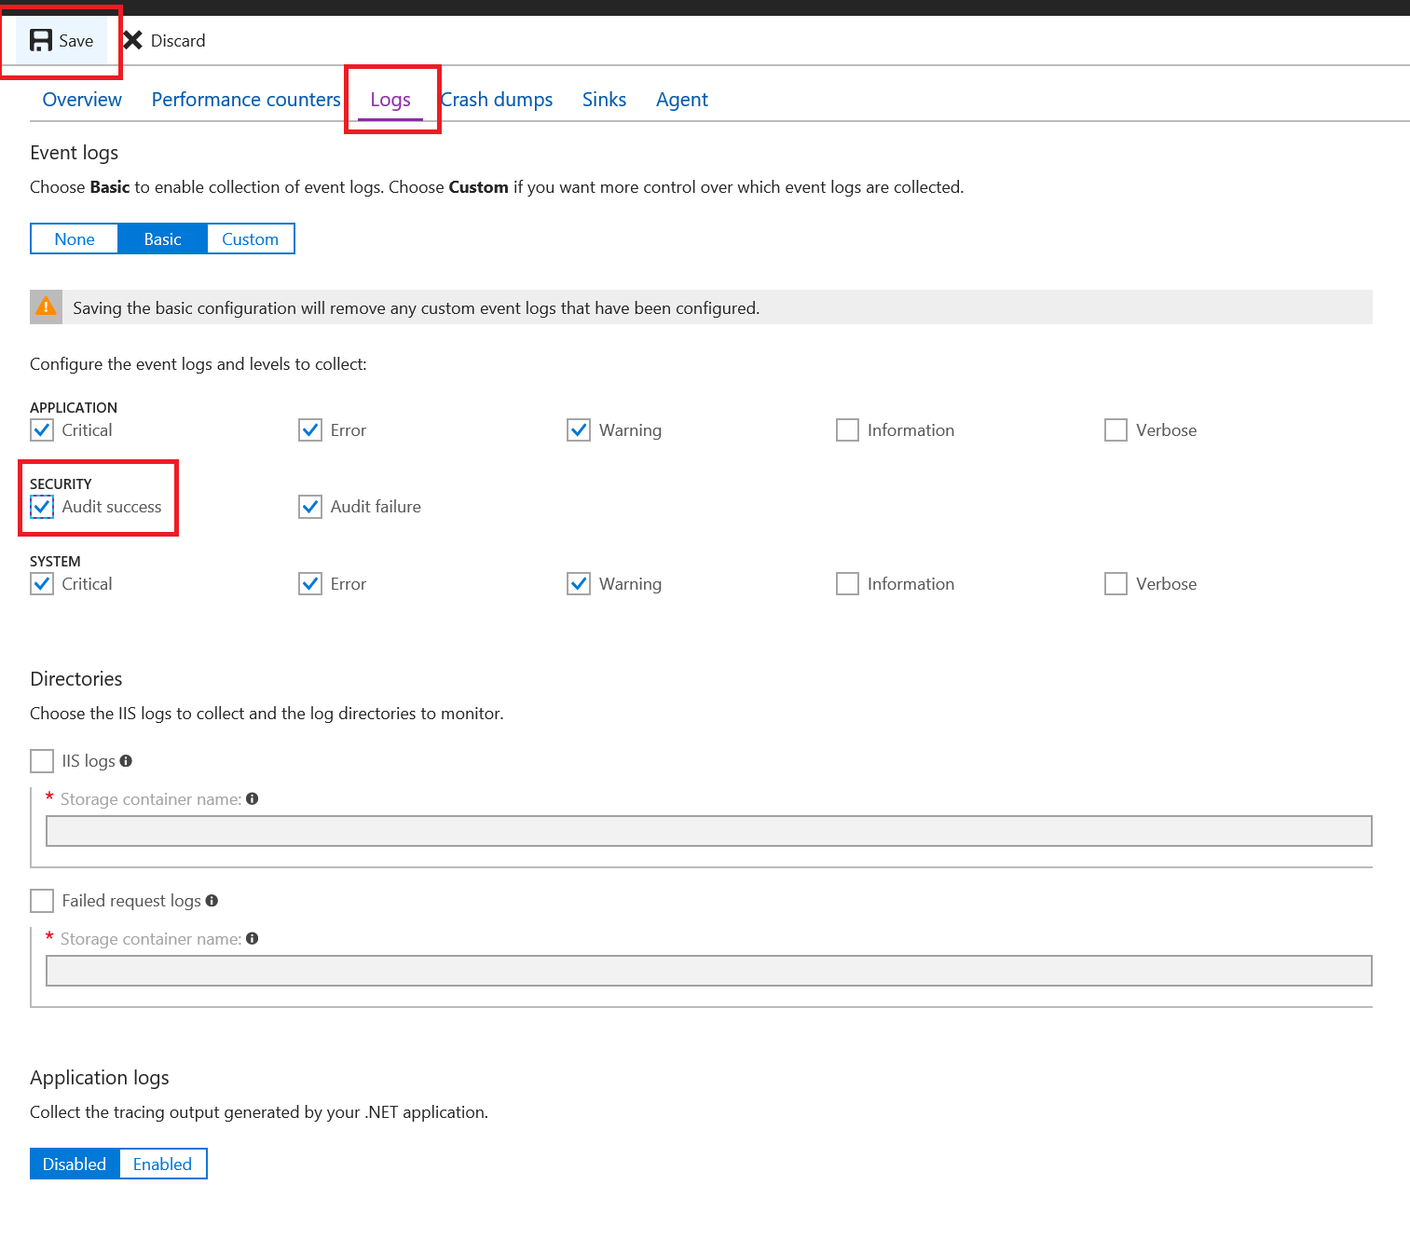
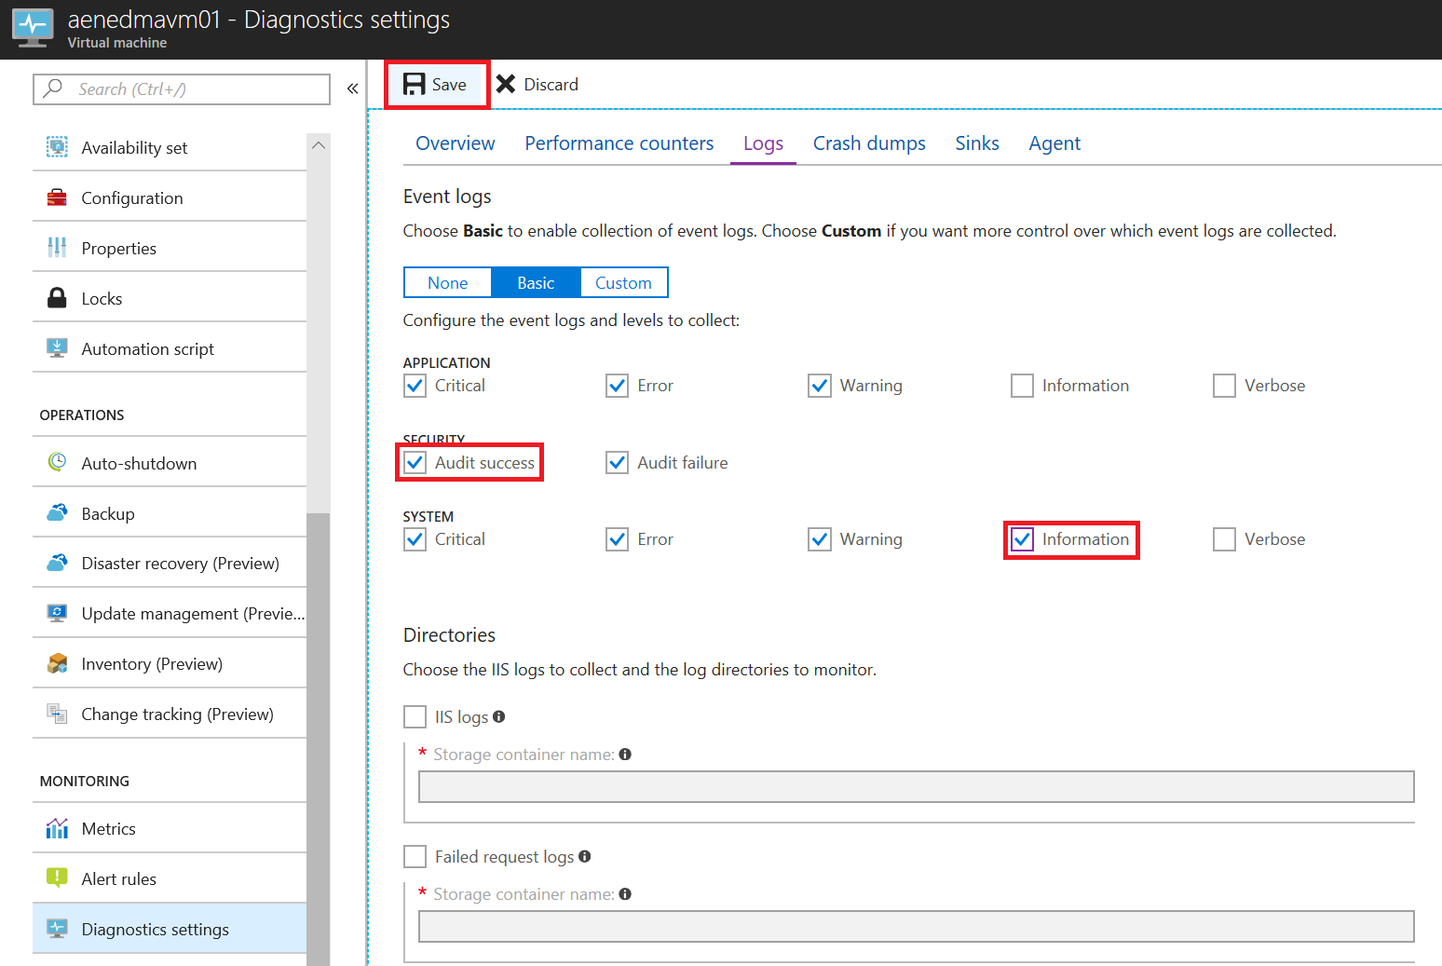
Latest readme.md and images

diff --git a/README.md b/README.md
@@ -8,6 +8,8 @@ This lab is focused on the operational aspects of working with Azure.  The subje
 
 In this exercise you will look at the Activity Log in Azure.  The Activity Log provides insight into the operations that have been performed on resources in your subscription using Resource Manager.  For example, creating a virtual machine or deleting a Public IP will show up in the Activity Log.
 
+Activity logs have a 19-day data retention period.
+
 You created a Virtual Machine in a previous lab so there should be logs related to the creation of a Virtual Machine resource and other supporting resources such as a Network Interface, a Storage Account, an OS disk, etc. in your Activity Log.  So, let's take a look at your Activity Log entries related to the resources created during that lab.
 
 <br>
@@ -36,15 +38,27 @@ We're specifically interested in the creation of a Virtual Machine resource so e
 
 <br>
 
-As an example of gathering information from the log entries, I have expanded an 'Write-NetworkInterfaces' line and selected 'JSON'.  I am able to see the Public IP that was bound to the NIC of the VM at this time.
+As an example of gathering information from the log entries, I have expanded an 'Write-NetworkInterfaces' line and selected 'JSON'.  I am able to see the Public IP that was bound to the Network Interface of the VM at this time.  You should now find an equivalent 'Write-NetworkInterfaces' line in your log entries and expand on it/click on it.
 
 ![Activity Log VM write NIC with PIP](images/4_ActivityLogWriteNICPIP.png?raw=true)
+
+<br>
+
+You can fit Activity Logs in with integration scenarios such as:
+
+* Create an email or webhook alert that triggers off an Activity Log event
+* Stream into an Event Hub for ingestion by a third-party service or custom analytics solution such as PowerBI
+* Analyse in PowerBI using the PowerBI content pack
+* Save to a Storage Account for archival or manual inspection. You can specify the retention time (in days) using Log Profiles
+* Query and view in the Azure portal
+* Query via PowerShell Cmdlet, CLI, or REST API
+* Export the Activity Log with Log Profiles to log Analytics
 
 <br><br>
 
 #### END OF EXERCISE 1
 
-Stay where you are within the Azure Portal because in the next exercise you will be configuring an Activity Log Alert.
+Stay where you are within the Azure Portal because in the next exercise you will be configuring an Activity Log Alert which addresses the first bullet point above.
 
 <br><br>
 
@@ -74,18 +88,18 @@ Click 'Add activity log alert' on the page that you're currently on.
 
 Now, add names and change the settings:
 
-- Choose the resource group that you setup for VM creation earlier rather than creating a new 'Default' one for action group association (this helps with clearing up later + keeping environments separate)
-- Limit the 'Resource type' to 'Network Interfaces (Microsoft.Network/networkinterfaces)'
-- As the alert is limited to the logged-in user by default, we'll expand both the 'Resource Group' and 'Resource' in scope to 'All' in order to capture any event of this type performed by you-alone
-- Change the 'Operation name' value to 'Create or Update Network Interface (networkinterfaces)'
-- Choose 'Informational' under the 'Level' drop-down menu
-- Create a new Action Group by adding an appropriate name and a short name
-- Add an action
+1. Choose the resource group that you setup for VM creation earlier rather than creating a new 'Default' one for action group association (this helps with clearing up later + keeping environments separate)
+2. Limit the 'Resource type' to 'Network Interfaces (Microsoft.Network/networkinterfaces)'
+3. As the alert is limited to the logged-in user by default, we'll expand both the 'Resource Group' and 'Resource' in scope to 'All' in order to capture any event of this type performed by you-alone
+4. Change the 'Operation name' value to 'Create or Update Network Interface (networkinterfaces)'
+5. Choose 'Informational' under the 'Level' drop-down menu
+6. Create a new Action Group by adding an appropriate name and a short name
+7. Add an action
 
 Re. actions, amongst a few options, you can configure a metric alert to do the following:
-- Send email notifications
-- Call a webhook (e.g. a Logic App or Function HTTP trigger)
-- Start execution of an Azure Automation runbook
+* Send email notifications
+* Call a webhook (e.g. a Logic App or Function HTTP trigger)
+* Start execution of an Azure Automation runbook
 
 Here is the full list of action options as of 01/18:
 
@@ -165,11 +179,11 @@ You have now configured an Alert and verified that it's being triggered under th
 
 ### Step 4 - An introduction to Azure Monitor
 
-So far, you have worked with the Acitivity Log and Alerts.  Many of the operational tools available in Azure have been consolidated into one place.  This consolidation is provided by Azure Monitor.  Azure Monitor provides base-level infrastructure metrics and logs for most services in Microsoft Azure.
+So far, you have worked with the Acitivity Log and Alerts.  Many of the operational tools available in Azure have now been consolidated into one place.  The consolidated view is provided by Azure Monitor.  Azure Monitor provides base-level infrastructure metrics and logs for most services in Microsoft Azure.
 
 It has a landing page that helps you:
-- Understand the monitoring capabilities offered by Azure
-- Discover, configure, and on-board Azure’s platform and premium monitoring capabilities
+* Understand the monitoring capabilities offered by Azure
+* Discover, configure, and on-board Azure’s platform and premium monitoring capabilities
 
 While the Azure Monitor service is released, the landing overview page is in preview.
 
@@ -203,23 +217,23 @@ Click into the 'Activity Log' and 'Alerts' pages... look familiar?
 
 ## Exercise 3 - Inspecting Boot Diagnostics Logs and Guest OS Diagnostics Logs
 
-VM Boot Diagnostics logs and Guest OS-level Diagnostics Logs fall under 'Event Management' from an ITIL viewpoint and visibility of these logs can aid efforts related to maintaining the health of IT services.  VM Boot Diagnostics logs are Resource-level diagnostics logs.
+VM Boot Diagnostics logs and Guest OS-level Diagnostics Logs fall under 'Event Management' from an ITIL viewpoint and visibility of these logs can aid efforts related to maintaining the health of IT services.
 
-Azure resource-level diagnostic logs are logs emitted by a resource.  The content of these logs varies by resource type.  Resource-level diagnostic logs provide insight into operations that were performed within that resource itself.  For example, getting a secret from a Key Vault would be logged in a Resource-level log.
+VM Boot Diagnostics logs are Resource-level diagnostics logs.  Azure resource-level diagnostic logs are logs emitted by a resource.  The content of these logs varies by resource type.  Resource-level diagnostic logs provide insight into operations that were performed within that resource itself.  For example, getting a secret from a Key Vault would be logged in a Resource-level log.
 
 Guest OS-level diagnostic logs differ from Resource-level diagnostics logs. Guest OS diagnostic logs are those collected by an agent running inside of a virtual machine or other supported resource type.  Resource-level diagnostic logs require no agent and capture resource-specific data from the Azure platform itself, while guest OS-level diagnostic logs capture data from the operating system and applications running on a virtual machine.
 
 The Azure diagnostics extension is needed (Windows or Linux) to collect most application level metrics and logs. The types include:
-- Performance counters
-- Application Logs
-- Windows Event Logs
-- .NET Event Source
-- IIS Logs
-- Manifest based ETW
-- Crash Dumps
-- Customer Error Logs
+* Performance counters
+* Application Logs
+* Windows Event Logs
+* .NET Event Source
+* IIS Logs
+* Manifest based ETW
+* Crash Dumps
+* Customer Error Logs
 
-Without the diagnostics extension, only a few metrics - like CPU usage for instance - are available.
+Without the diagnostics extension, only a few metrics - like CPU usage - are available.
 
 In this exercise you will be checking that boot diagnostics logs are being collected on a given/your VM (which they will be because you configured your VM to do so in a previous lab) and then inspecting the logs using Azure Portal, a manual download from the backing Storage Account, and then lastly with Azure CLI.  You will then enable Guest OS-level diagnostic logging on your VM and inpsect the output.
 
@@ -239,7 +253,7 @@ You will see that boot diagnostics is already turned on and the logs are being s
 
 <br>
 
-If your Boot Diagnostics isn't switched on then please move the toggle switch to 'On', choose an existing Storage Account or create a new one, ensure that the 'Boot diagnostics' check box is selected, and then click 'Save'.  Note. I would advise opening up the Azure Portal in another tab/window and then reboot the VM (or do it using Azure CLI or PowerShell).
+If your Boot Diagnostics isn't switched on then please move the toggle switch to 'On', choose an existing Storage Account or create a new one, ensure that the 'Boot diagnostics' check box is selected, and then click 'Save'.  Note. I advise opening up the Azure Portal in another tab/window and then reboot the VM (or do it using Azure CLI or PowerShell).
 
 <br>
 
@@ -249,11 +263,11 @@ Close settings and click 'Serial log':
 
 ![Boot diagnostics Serial log](images/23_BootDiagnosticsSeriallog.png?raw=true)
 
-Here you will see the serial log for the VM in question.  The Serial log is populated by the Azure VM Agent or when events are printed during boot.
+Here you will see the serial log for the VM in question.  The Serial log is populated by the Azure VM Agent or when events are printed to serial console during boot.
 
-The serial log is stored as a .log file in the backing Storage Account alongside the latest .bmp format screenshot image.  The log can be downloaded directly from the page that you're on ('Boot diagnostics') by clicking 'Download serial log'.
+The serial log is stored as a .log file in a backing Storage Account alongside, in the case of Windows, a latest .bmp format screenshot image.  The log can be downloaded directly from the page that you're on ('Boot diagnostics') by clicking 'Download serial log'.
 
-However, this guide is going to take you to have a look around the backing Storage Account with you downloading the log file from there.  Make a mental note of the Storage Account name that was displayed when you checked that the services was on.
+However, this guide is going to take you to have a look around the backing Storage Account with you downloading the log file from there.  Make a mental note of the Storage Account name that was displayed when you checked that the services was on (or go back and check if needbe).
 
 <br>
 
@@ -293,22 +307,28 @@ You should now see two objects.  A .log log file and a .bmp screenshot image fil
 
 <br>
 
-Depending on your browser [configuration], you'll either see the .log file open in a new tab or need to download it and then open it.  Once one of those things has happened, take a look at the contents of the log file and familiarise yourself with what is included in it.
+Depending on your browser [configuration], you'll either see the .log file open in a new tab or you will need to download it and then open it.  Once one of those things has happened, take a look at the contents of the log file and familiarise yourself with what is included in it.
 
 <br>
 
-We took the approach of accessing the backing Storage Account to show how straightforward it is to work with a log file.  As it's sat in its native format in a Storage Account, all of the activities that you can perform with blobs are available to you.  This includes building an archive of your logs in a separate Storage Account by copying from one Storage Account to another for instance or simply downloading the blob using a SAS + URL.
- 
+![.log Blob](images/29_StorageAccountBlobDownload2.png?raw=true)
+
 <br>
 
-Please see below for a full view of the options available when working with logs:
+We took the approach of accessing the backing Storage Account to show how straightforward it is to work with a log file.  As it's sat in its native format in a Storage Account, all of the activities that you can perform with blobs are available to you.  This includes building an archive of your logs in a separate Storage Account by copying from one Storage Account to another or simply being able to 'publish' the blob using a SAS + URL.
+
+Note. Re. the point above about archiving, there is a retention policy that can be set natively under 'Diagnostics settings'.  A retention policy can be any number of days between 1 and 2147483647. Retention policies are applied per-day, so at the end of a day, logs from the day that is now beyond the retention policy will be deleted.
+
+<br>
+
+Please see below for a full view of the options available when working with diagnostics logs:
 
 ![Logs output](https://docs.microsoft.com/en-us/azure/monitoring-and-diagnostics/media/monitoring-overview-of-diagnostic-logs/diagnostics_logs_actions.png?raw=true)
 
-You can:
-- Save them to a Storage Account for auditing or manual inspection. You can specify the retention time (in days) using resource diagnostic settings
-- Stream them to Event Hubs for ingestion by a third-party service or custom analytics solution such as PowerBI
-- Analyse them with Log Analytics (which you'll be introduced to later)
+So, you can:
+* Save them to a Storage Account for auditing or manual inspection. You can specify the retention time (in days) using resource diagnostic settings
+* Stream them to Event Hubs for ingestion by a third-party service or custom analytics solution such as PowerBI
+* Analyse them with Log Analytics (which you'll be introduced to later)
 
 <br>
 
@@ -316,11 +336,15 @@ You can:
 
 Richard/James to demonstrate as this doesn't work when using the Cloud Shell.
 
+Commands:
+* PowerShell = `Get-AzureRmVMBootDiagnosticsData -ResourceGroupName "<rgname>" -Name "<vmname>" -Windows -LocalPath "<localdirectory>"`
+* CLI = `az vm boot-diagnostics get-boot-log -g <rgname> -n <vmname>`
+
 <br>
 
 ### Step 4 - Enable Guest-OS diagnostics logs
 
-Firsly, please navigate to your VM in the Azure Portal and enter the 'Diagnostics settings' blade.
+Firsly, navigate to your VM in the Azure Portal and enter the 'Diagnostics settings' blade.
 
 ![Diagnostics Settings](images/30_DiagnosticsSettingsNavigate.png?raw=true)
 
@@ -332,38 +356,37 @@ Now, turn on the Guest OS logging by clicking on 'Enable guest-level monitoring'
 
 <br>
 
-You should be presented with a page such as this:
+You should be presented with a page like this:
 
 ![Guest Monitoring](images/32_DiagnosticsSettingsOptions.png?raw=true)
 
 Here you can see all of the options available to you in respect to guest-level monitoring/logging.  This includes:
 
-- 'Configure performance counters'
--- This takes you to the 'Performance counters' tab to the right of the 'Overview' tab.
--- Here you will see a toggle switch for 'None', 'Basic', 'Custom'
---- 'None' = No counters, 'Basic' = A default list of counters with fixed sample rates inc. CPU, Memory, Disk, and Network, and 'Custom' = choose a counters based on any metric that's supported and set custom sample rates per-counter
-- 'Configure event logs'
--- This takes you to the 'Logs' tab to the right of the 'Performance counters' tab
--- This is similar to Performance Counters in that you have a choice of 'None', 'Basic', and 'Custom'.  Here you can select which types and levels of logs to collect
-- 'Configure directories'
--- This takes you to the 'Logs' tab to the right of the 'Performance counters' tab
--- This is in relation to choosing the IIS logs to collect and the log directories to monitor
-- 'Configure crash dumps'
--- This takes you to the 'Crash dumps' tab to the right of the 'Logs' tab
--- Here you have a toggle switch for collecting memory dumps when a particular process crashes.
-- 'Configure sinks'
--- This takes you to the 'Sinks' tab to the right of the 'Sinks' tab
--- This is how you configure whether to send diagnostics data to Application Insights or not to provide advanced analytics for apps running on this VM
-- 'Configure agent'
--- This takes you to the 'Agent' tab to the right of the 'Crash dumps' tab
--- Here you configure additional options for the Azure Diagnostics agent such as Log Level, the backing Storage Account to use, and the disk quote
-- 'View boot diagnostics' and 'Configure boot diagnostics'
--- This takes you to the settings of the VM that you're working with
--- This is the settings page that you have visited in a prior exercise.
+* 'Configure performance counters'
+  * This takes you to the 'Performance counters' tab to the right of the 'Overview' tab.
+  * Here you will see a toggle switch for 'None', 'Basic', 'Custom'.  'None' = No counters, 'Basic' = A default list of counters with fixed sample rates inc. CPU, Memory, Disk, and Network, and 'Custom' = choose a counters based on any metric that's supported and set custom sample rates per-counter
+*- 'Configure event logs'
+  * This takes you to the 'Logs' tab to the right of the 'Performance counters' tab
+  * This is similar to Performance Counters in that you have a choice of 'None', 'Basic', and 'Custom'.  Here you can select which types and levels of logs to collect
+* 'Configure directories'
+  * This takes you to the 'Logs' tab to the right of the 'Performance counters' tab
+  * This is in relation to choosing the IIS logs to collect and the log directories to monitor
+* 'Configure crash dumps'
+  * This takes you to the 'Crash dumps' tab to the right of the 'Logs' tab
+  * Here you have a toggle switch for collecting memory dumps when a particular process crashes.
+* 'Configure sinks'
+  * This takes you to the 'Sinks' tab to the right of the 'Sinks' tab
+  * This is how you configure whether to send diagnostics data to Application Insights or not to provide advanced analytics for apps running on this VM
+* 'Configure agent'
+  * This takes you to the 'Agent' tab to the right of the 'Crash dumps' tab
+  * Here you configure additional options for the Azure Diagnostics agent such as Log Level, the backing Storage Account to use (i.e. a different one to what's chosen/created), and the disk quota
+* 'View boot diagnostics' and 'Configure boot diagnostics'
+  * This takes you to the settings of the VM that you're working with
+  * This is the settings page that you have visited in a prior exercise.
 
 <br>
 
-Click on the 'Performance counters' tab or 'Configure performance counters'.
+Click on the 'Performance counters' tab or 'Configure performance counters' on the 'Overview' tab.
 
 Take a look.  What performance counters are on and what is the sample rate?
 
@@ -373,18 +396,9 @@ Take a look.  What performance counters are on and what is the sample rate?
 
 Now, click on the 'Logs' tab or 'Configure event logs' on the Overview tab.
 
-Here, we will change a setting.  Click the 'Audit success' event check box in the 'SECURITY' section and then click 'Save'.
+Here, we will change a couple of settings.  Click the 'Audit success' event check box in the 'SECURITY' section and the 'Information' event check box under 'SYSTEM' and then click 'Save'.
 
 ![Diagnostics Settings Logs](images/34_DiagnosticsSettingsChangeSecurityAuditSetting.png?raw=true)
-
-<br>
-
-The last thing we'll do in this step is...
-
-<br>
-
-### Step 5 - View Guest-OS diagnostics logs
-
 
 <br>
 
@@ -407,10 +421,14 @@ In this exercise you will spend a bit more time with Azure Monitor by starting t
 ### Step 1 - Navigate back to Azure Monitor using the same method as before and read the information below
 
 When you open the Azure Monitor page, you can select among the subscriptions that you have read access to.  For a selected subscription, you can see:
-- Triggered alerts and alert sources - This table shows summary counts, alert sources, and how many times alerts fired for the selected time duration. It applies to both metric and activity log alerts. <Edit: Alerts (Preview) with unified experience also shown for all alerts - events, metrics and logs
-- Activity Log Errors - If any of your Azure resources log events with error-level severity, you can view a high-level count and click through to the activity log page to investigate each event
-- Azure Service Health - You can see a count of Service Health service issues, planned maintenance events, and health advisories. Azure Service Health provides personalized information when problems in the Azure infrastructure impact your services
-- Application Insights - See KPIs for each AppInsights resource in the current subscription. The KPIs are optimised for server-side application monitoring across ASP.NET web apps, Java, Node, and General application types. The KPIs include metrics for request rate, response duration, failure rate, and availability %
+* Triggered alerts and alert sources
+  * This table shows summary counts, alert sources, and how many times alerts fired for the selected time duration. It applies to both metric and activity log alerts
+* Activity Log Errors
+  * If any of your Azure resources log events with error-level severity, you can view a high-level count and click through to the activity log page to investigate each event
+* Azure Service Health
+  * You can see a count of Service Health service issues, planned maintenance events, and health advisories.  Azure Service Health provides personalised information when problems in the Azure infrastructure impact your services
+* Application Insights
+  * See KPIs for each AppInsights resource in the current subscription.  The KPIs are optimised for server-side application monitoring across ASP.NET web apps, Java, Node, and General application types.  The KPIs include metrics for request rate, response duration, failure rate, and availability %
 
 If you have not on-boarded to Log Analytics or Application Insights, or if you have not configured any Azure Alerts in the current subscription, this page provides links to begin your on-boarding process.
 
@@ -456,7 +474,7 @@ When it comes to diagnostics logs, here's what you can do if you stream them int
 - Solutions - Use pre-built views and dashboards that give you immediate insight into your log data
 - Advanced analytics - Apply machine learning and pattern matching algorithms to identify possible issues revealed by your logs
 
-Due to some unpredictability in regard to the current state of your Log Analytics setup, Richard will lead an unscripted overview of this.
+Due to some unpredictability in regard to the current state of your Log Analytics setup, Richard/James will lead an unscripted overview of this.
 
 Here's a snapshot of what to expect however:
 
@@ -467,6 +485,12 @@ Here's a snapshot of what to expect however:
 ![Azure Monitor Log Analytics](images/39_AzureMonitorLogAnalyticsOpen.png?raw=true)
 
 <br>
+
+### Step 4 - Network Watcher
+
+
+
+<br><br>
 
 ## Exercise 5 - Gather information from Azure Advisor
 
@@ -490,20 +514,14 @@ Note. To use Azure Advisor with a subscription, a subscription Owner must launch
 
 <br>
 
-### Step 1 - Navigate to Azure Advisor
+Richard/James to demonstrate.
 
-
-
+<br><br>
 
 ## Exercise 6 - Explore App Insights and Security Center
 
 Application Insights offers application performance monitoring and user analytics.  It monitors the code that you've written and applications that you've deployed on Azure, on-premises, or other clouds.  By instrumenting your application with the Application Insights SDK you can get access to a range of data including response times of dependencies, exception traces, debugging snapshots, and execution profiles.  It provides powerful tools for analysing this application telemetry while developing and operating your application.  It deeply integrates with Visual Studio to enable you to get right to the problem line(s) of code so you can fix it, and offers usage analytics to analyse customer usage of your applications for product managers as well.
 
-In this exercise we will be...
+<br>
 
-
-## Exercise 10 - Leveraging Event Grid
-
-Event Grid helps you build reactive, event-driven apps with a fully managed event routing service.  You can create richer app scenarios by connecting serverless logic to events from multiple sources inc. Azure services.
-
-In this exercise we will be...
+Richard/James to demonstrate.
